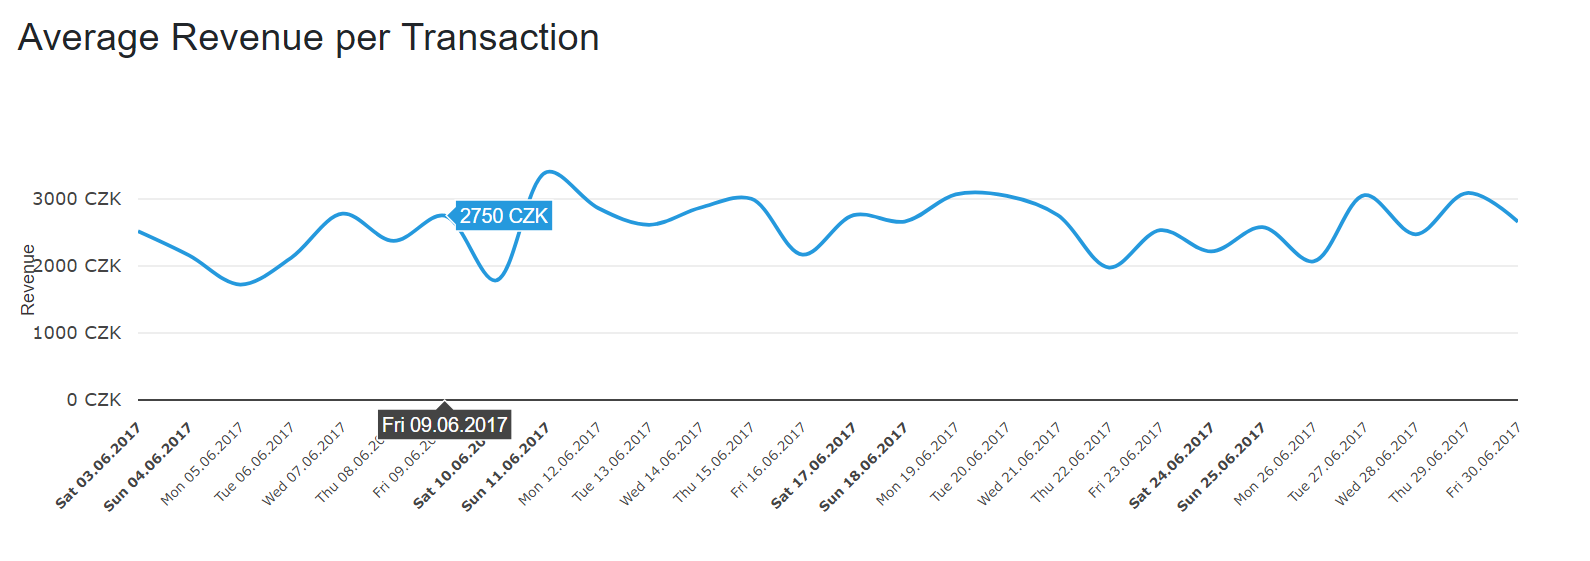
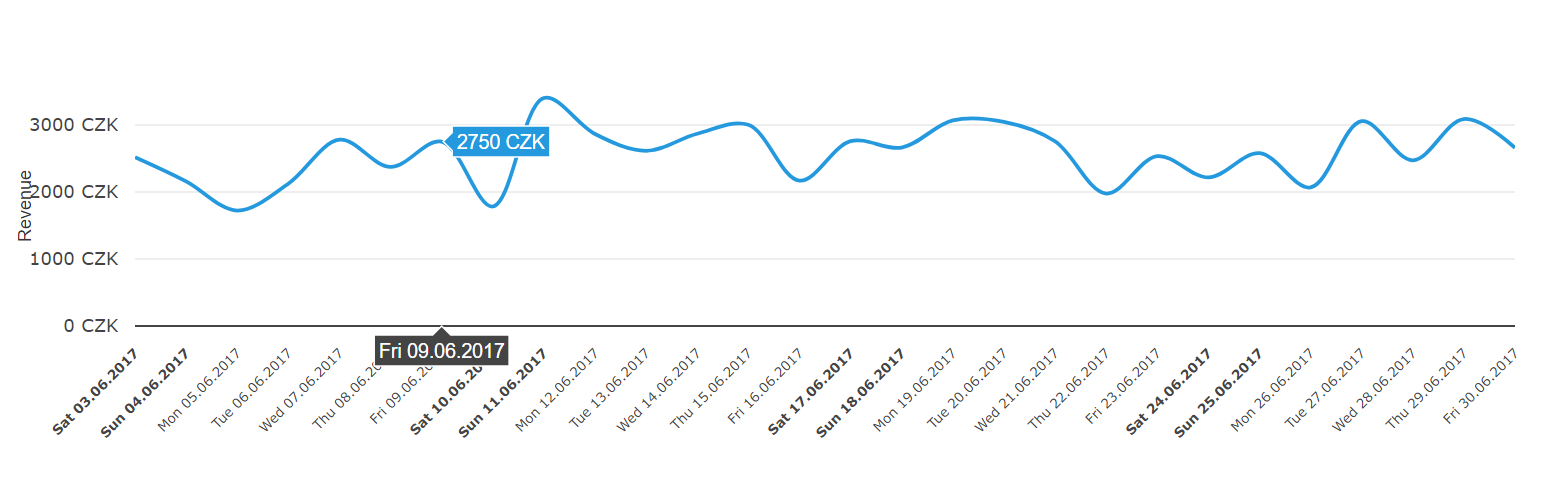
nove obrazky

diff --git a/index.html b/index.html
@@ -185,7 +185,7 @@
                                             </p>
                                         </div>
                                         <div class="caption-button" data-animation="animated fadeInUp">
-                                            <a href="usecases.html#1" class="button">Read more</a>
+                                            <a href="movement.html" class="button">Read more</a>
                                         </div>
                                     </div>
                                     <div class="col-xs-12 col-md-6">
@@ -217,7 +217,7 @@
                                             </p>
                                         </div>
                                         <div class="caption-button" data-animation="animated fadeInUp">
-                                            <a href="usecases.html#2" class="button">Read more</a>
+                                            <a href="money.html" class="button">Read more</a>
                                         </div>
                                     </div>
                                     <div class="col-xs-12 col-md-6">
@@ -283,10 +283,10 @@
                         <!-- Indicators -->
                         <ol class="carousel-indicators caption-indector">
                             <li data-target="#caption_slide" data-slide-to="0" class="active">
-                                <h3>Visits </h3>
+                                <h3>Movement </h3>
                             </li>
                             <li data-target="#caption_slide" data-slide-to="1">
-                                <h3>Retention </h3>
+                                <h3>Money </h3>
                             </li>
                             <li data-target="#caption_slide" data-slide-to="2">
                                 <h3>Conversion </h3>
@@ -335,6 +335,7 @@
                 <div class="col-md-4">
                     <ol start="6">
                         <li><a href="movement.html#Returning">Returning Visitors</a></li>
+                        <li><a href="movement.html#Duration">Average visit Duration</a></li>
                         <li><a href="money.html#Transactions">Number of Transactions</a></li>
                         <li><a href="money.html#Transactions">Visitor to Transaction Conversion</a></li>
                         <li><a href="money.html#Revenue">Revenue</a></li>
@@ -342,11 +343,11 @@
                     </ol>
                 </div>
                 <div class="col-md-4">
-                    <ol start="10">
+                    <ol start="1">
                         <li><a href="money.html#Revenue">Revenue per Visitor</a></li>
                         <li><a href="money.html#AVG">AVG REvenue + AVG REvenue per Visitor</a></li>
                         <li><a href="money.html">Average Revenue per Transaction</a></li>
-                        <li><a href="money.html">Visit Duration</a></li>
+                        
                     </ol>
                 </div>
             </div>

diff --git a/movement.html b/movement.html
@@ -162,7 +162,7 @@
             </div>
 
             <div id="row">
-                    <div class="col-md-12 text-center"><img src="images/moduleGraphs/peoplepassingby_conversiontovisitors.PNG" alt="visits"></div>
+                    <div class="col-md-12 text-center"><img src="images/moduleGraphs/peoplepassingby-conversiontovisitors.png" alt="visits"></div>
             </div>
 
         </div>
@@ -196,8 +196,21 @@
                 </div>
             </div>
             
+            <div class="row v-center">
+                <div class="col-md-12 text-center">
+                    <div class="page-title">
+                        <h2>Returning Visitors + Returning Visitors Percentage</h2>
+                        <p>
+                            Graf Returning Visitors + Returning Visitors Percentage porovnává počet návštěníků, kteří již někdy
+                            v minulosti obchod navštívili (Returning Visitors) a kolik je to procent z celkových návštěv obchodu
+                            za daný den (Returning Visitors Percentage).
+                        </p>
+                    </div>
+                </div>
+            </div>
+
             <div id="row">
-                <div class="col-md-12 text-center"><img src="images/moduleGraphs/returningvisitors_returningpercentage.PNG" alt="visits"></div>
+                <div class="col-md-12 text-center"><img src="images/moduleGraphs/returningvisitors-returningpercentage.png" alt="visits"></div>
             </div>
         </div>
     </section>
@@ -224,7 +237,7 @@
             </div>
             
             <div id="row">
-                    <div class="col-md-12 text-center"><img src="images/moduleGraphs/averagevisitduration.PNG" alt="visits"></div>
+                    <div class="col-md-12 text-center"><img src="images/moduleGraphs/averagevisitduration.png" alt="visits"></div>
             </div>
         </div>
     </section>

diff --git a/money.html b/money.html
@@ -145,7 +145,7 @@
             </div>
 
             <div id="row">
-                <div class="col-md-12 text-center"><img src="images/moduleGraphs/numbertrans_visittrans.png" alt="visits"></div>
+                <div class="col-md-12 text-center"><img src="images/moduleGraphs/numbertrans-visittrans.png" alt="visits"></div>
             </div>
         </div>
     </section>
@@ -195,7 +195,7 @@
             </div>
 
             <div id="row">
-                    <div class="col-md-12 text-center"><img src="images/moduleGraphs/peoplepassingby_conversiontovisitors.PNG" alt="visits"></div>
+                    <div class="col-md-12 text-center"><img src="images/moduleGraphs/peoplepassingby-conversiontovisitors.png" alt="visits"></div>
             </div>
 
         </div>
@@ -252,7 +252,7 @@
                 </div>
             
             <div id="row">
-                <div class="col-md-12 text-center"><img src="images/moduleGraphs/revenue_revpervisitor.PNG" alt="visits"></div>
+                <div class="col-md-12 text-center"><img src="images/moduleGraphs/revenue-revpervisitor.png" alt="visits"></div>
             </div>
         </div>
     </section>
@@ -278,7 +278,7 @@
             </div>
             
             <div id="row">
-                    <div class="col-md-12 text-center"><img src="images/moduleGraphs/averagerevpervisit.PNG" alt="visits"></div>
+                    <div class="col-md-12 text-center"><img src="images/moduleGraphs/averagerevpervisit.png" alt="visits"></div>
             </div>
         </div>
     </section>
